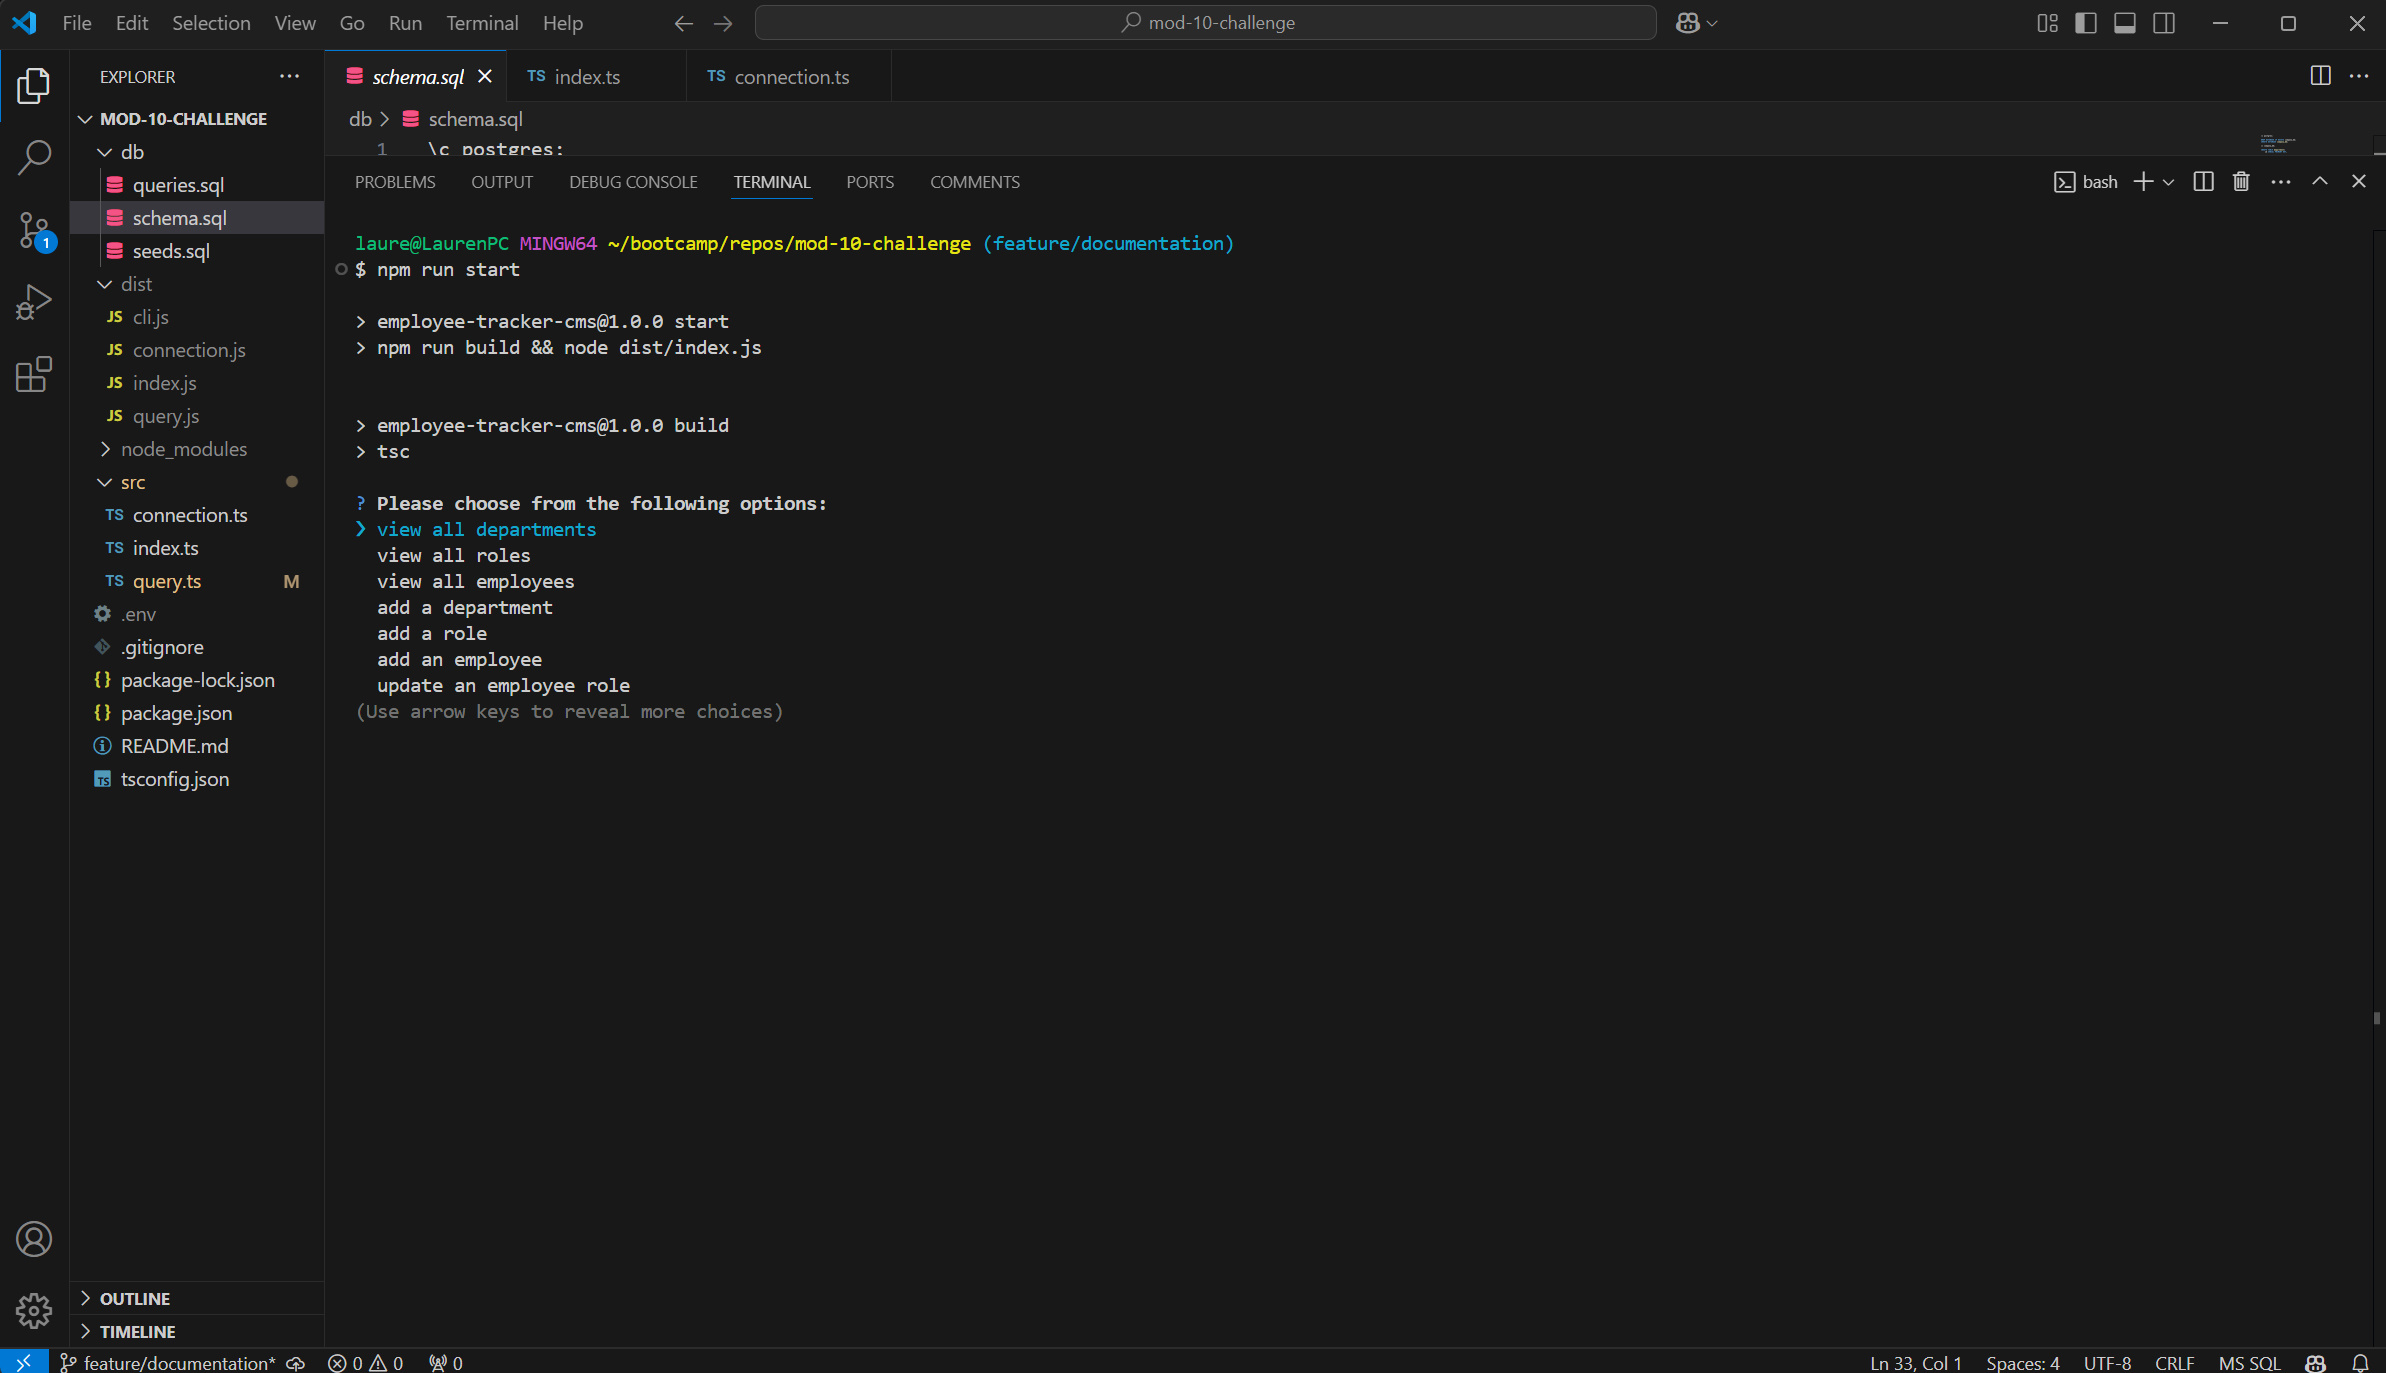
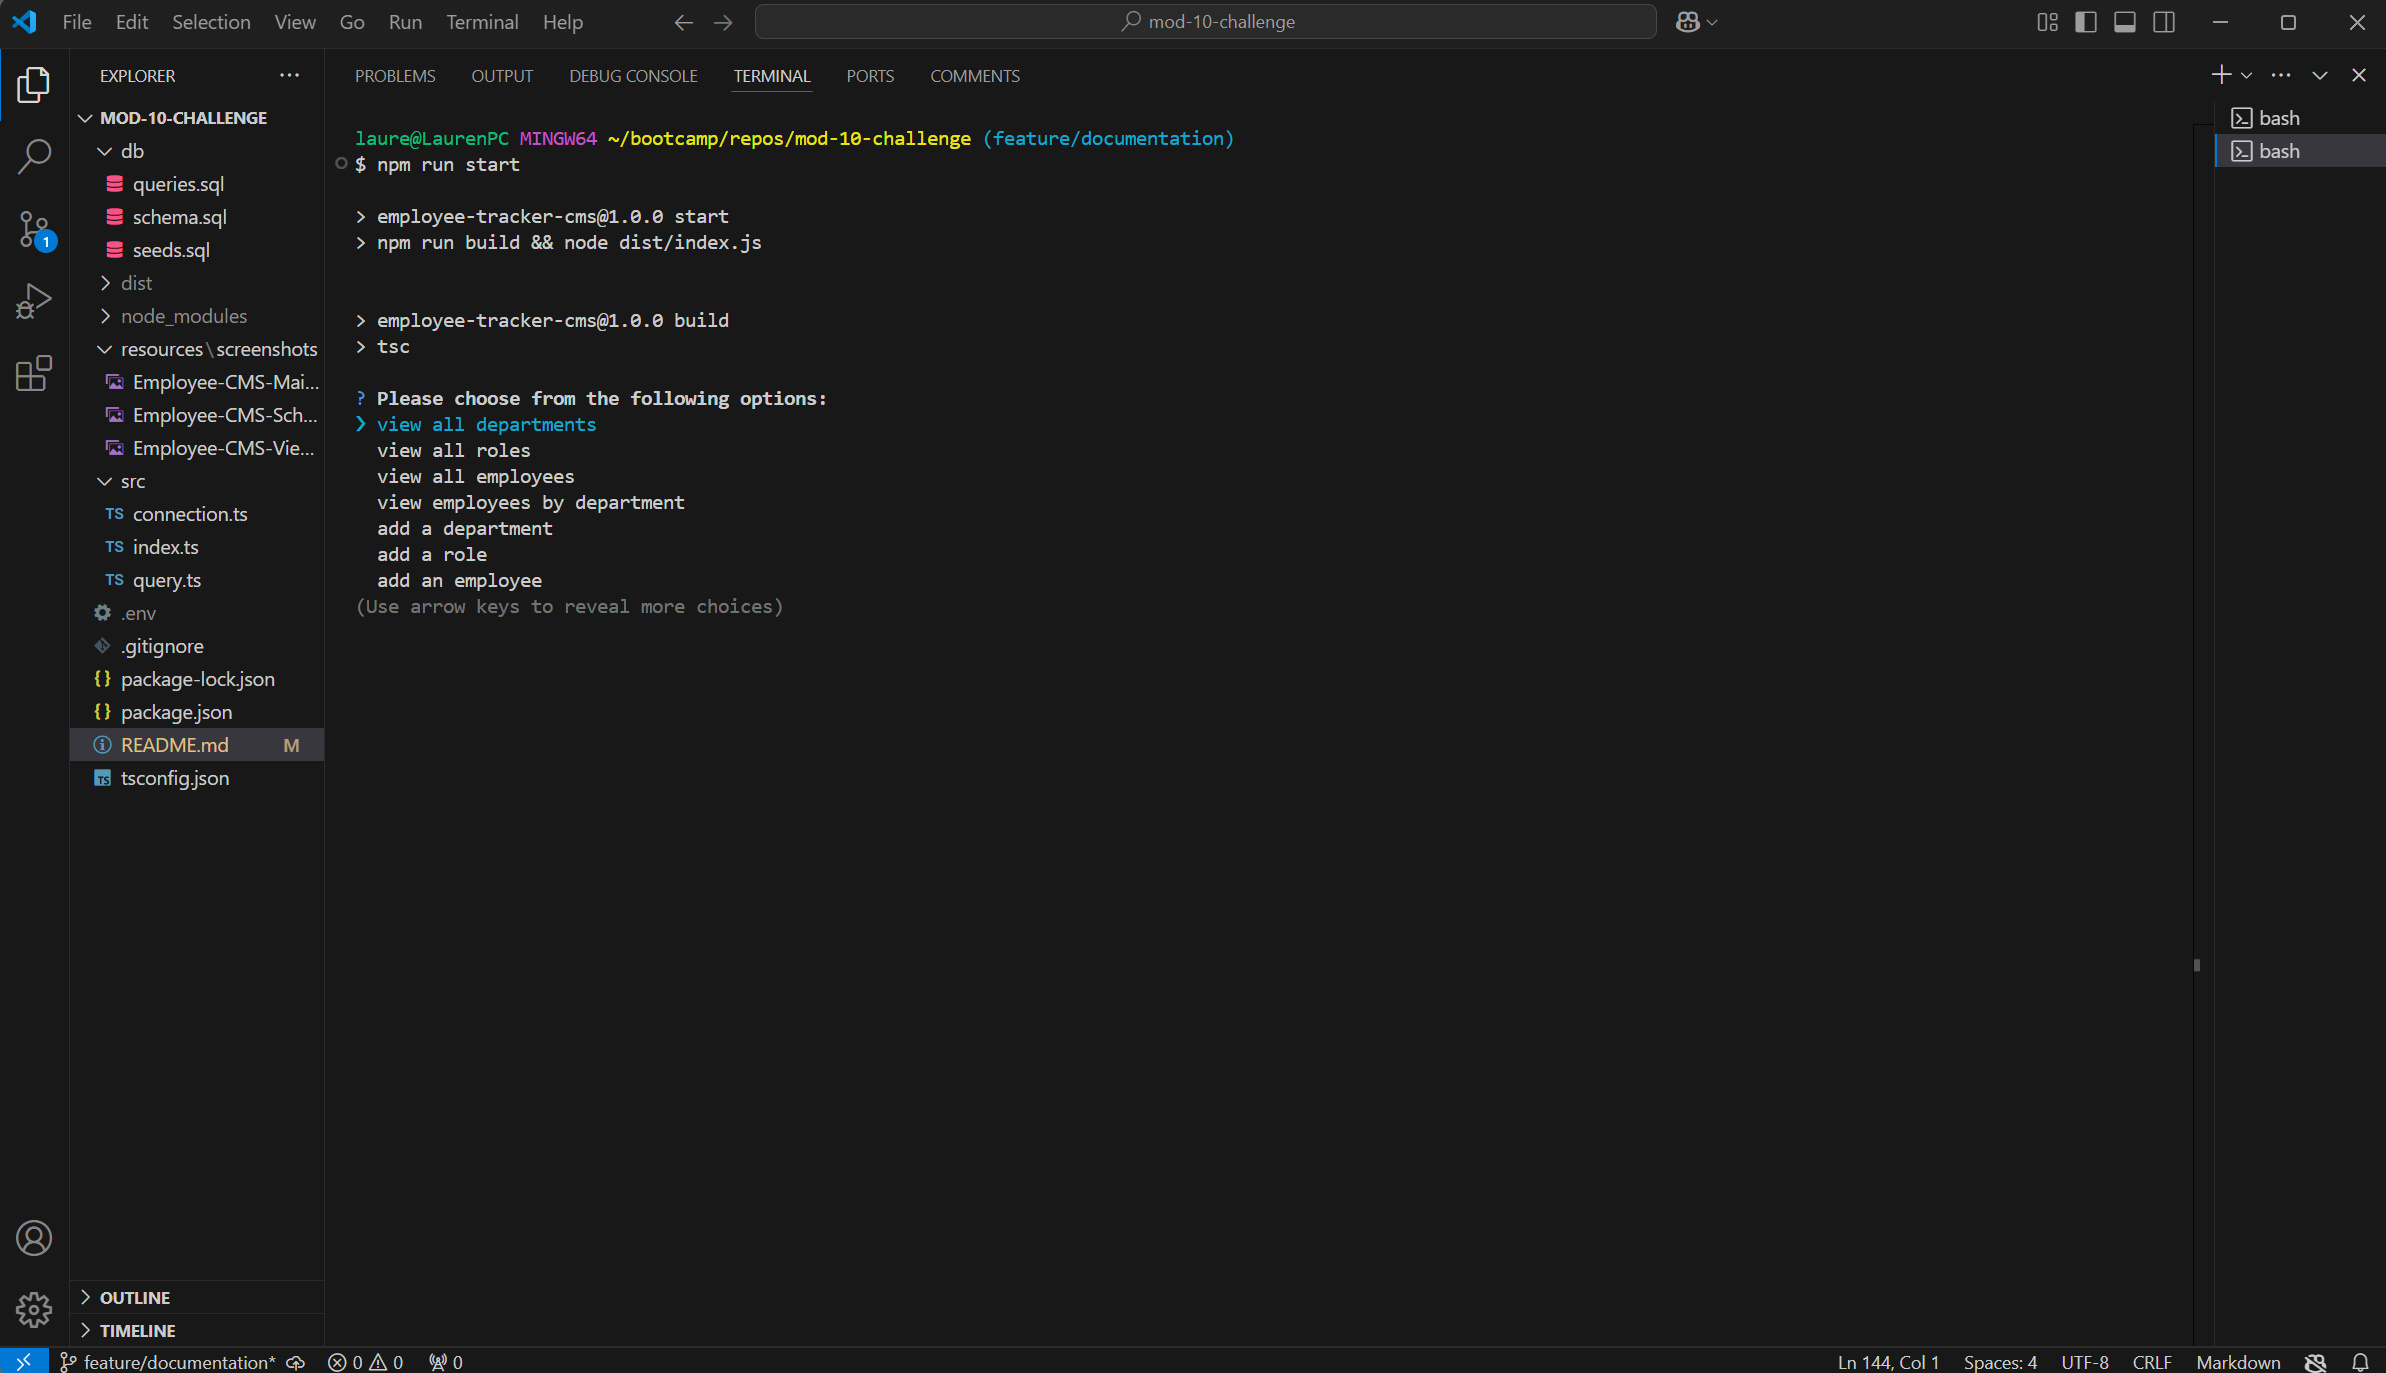
updated README to reflect addition of view employees by department.

diff --git a/README.md b/README.md
@@ -63,6 +63,8 @@ You should now be able to use the Employee-Tracker-CMS application to manage you
 
 - **View All Employees**: Select this option to view a list of all employees, including their roles, departments, salaries, and managers.
 
+- **View Employees by Department**: Select this option, and a department name, to view a list of all the employees within the specified department.
+
 3. **Add Data**:
 - **Add a Department**: Select this option to add a new department. You will be prompted to enter the name of the department.
 
@@ -132,7 +134,7 @@ Postgres documentation reference for pooling.
 
 **Image of the main menu of the application running in the command line.**
 
-![A screenshot of a VS Code workspace showing a project directory and terminal output. After running the npm start command, the program compiles (tsc) and presents a menu with options such as "view all departments," "view all roles," "view all employees," "add a department," "add a role," "add an employee," and "update an employee role." The user is prompted to select an option using arrow keys.](./resources/screenshots/Employee-CMS-Main-Menu.jpg)
+![A screenshot of a VS Code workspace showing a project directory and terminal output. After running the npm start command, the program compiles (tsc) and presents a menu with options such as "view all departments," "view all roles," "view all employees," "view employees by department," "add a department," "add a role," "add an employee," and "update an employee role." The user is prompted to select an option using arrow keys.](./resources/screenshots/Employee-CMS-Main-Menu.jpg)
 
 **Image showing the table results from the view all employees prompt.**
 
